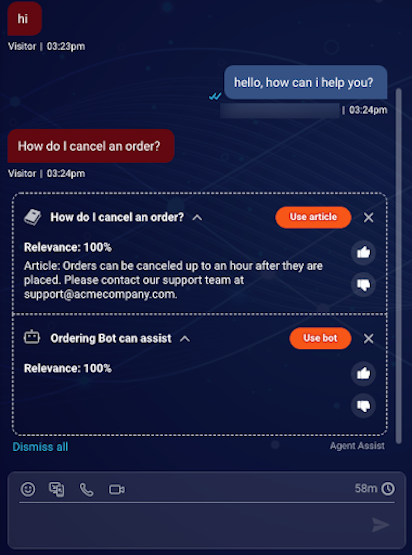
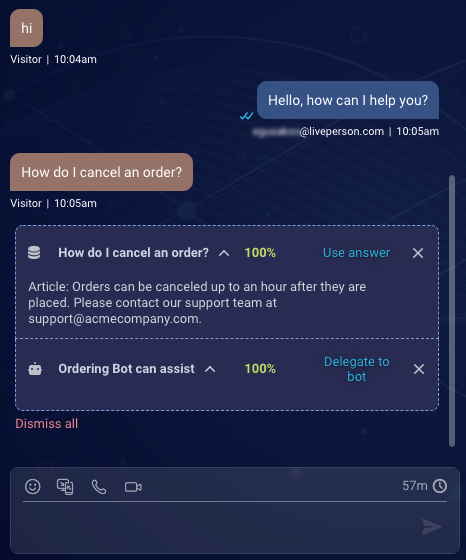
Finish updates due to CA redesign and name change

diff --git a/pages/documents/Bots-Automation/knowledgeai-with-conversation-assist.md b/pages/documents/Bots-Automation/knowledgeai-with-conversation-assist.md
@@ -72,7 +72,7 @@ KnowledgeAI works with LivePerson’s NLU engine and those from other providers.
 Using your content in an automated conversation: 
 ![](img/KAI-2.gif)
 
-Recommending answers and bots to agents:
+Recommending answers and bots to human agents:
 ![](img/KAI-3.png)
 
 ## Next steps: Getting started
